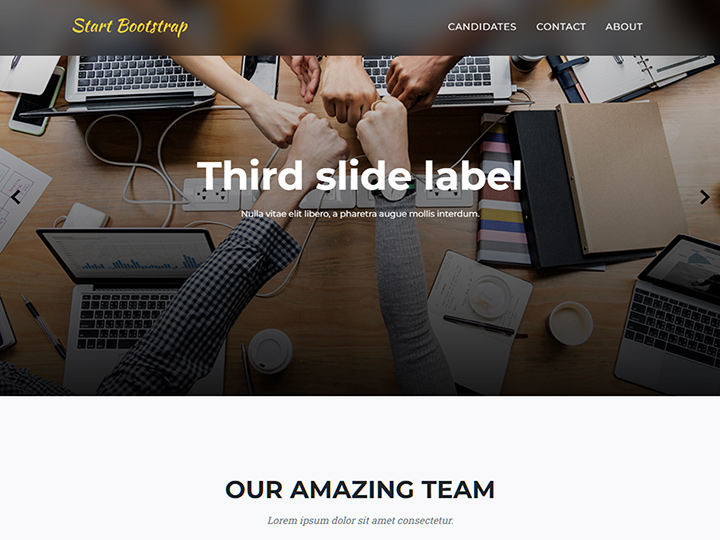
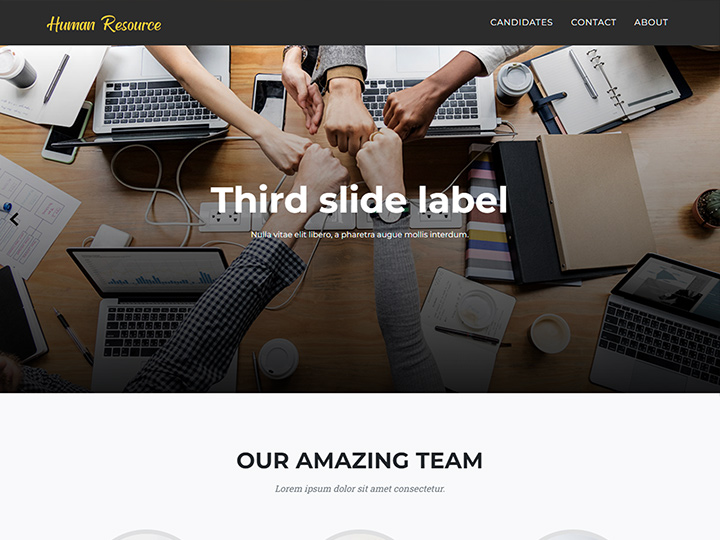
project update

diff --git a/index.html b/index.html
@@ -6,6 +6,12 @@
     <meta http-equiv="X-UA-Compatible" content="IE=edge">
     <link rel="icon" type="image/x-icon" href="favicon.ico">
     <meta name="viewport" content="width=device-width, initial-scale=1.0">
+    <script>
+        window.dataLayer = window.dataLayer || [];
+        function gtag() { dataLayer.push(arguments) }
+        gtag('js', new Date());
+        gtag('config', 'G-H2BFXVEZ0J');
+    </script>
     <link rel="stylesheet" href="https://cdn.jsdelivr.net/npm/bootstrap-icons@1.7.2/font/bootstrap-icons.css">
     <link href="https://cdn.jsdelivr.net/npm/bootstrap@5.1.3/dist/css/bootstrap.min.css" rel="stylesheet"
         integrity="sha384-1BmE4kWBq78iYhFldvKuhfTAU6auU8tT94WrHftjDbrCEXSU1oBoqyl2QvZ6jIW3" crossorigin="anonymous">
@@ -28,7 +34,7 @@
     <div class="px-1 px-sm-3 mb-2">
         <main class="container">
 
-            
+
 
             <div class="p-3 p-md-5 m-2 text-center bg-light">
                 <div class="col-md-9 mx-auto">
@@ -68,9 +74,17 @@
 
             <div class="row featurette">
                 <div class="col-md-5 order-md-2">
-                    <h2 class="featurette-heading"><span class="text-muted">React Redux</span> Human Resource<span class="text-muted"> Application</span></h2>
-                    <p class="lead">Lorem ipsum dolor sit amet consectetur adipisicing elit. Cumque architecto ratione eveniet amet, repellat ipsa doloremque enim culpa?</p>
+                    <h2 class="featurette-heading"><span class="text-muted">React Redux</span> Human Resource<span
+                            class="text-muted"> Application</span></h2>
+                    <p class="lead">Lorem ipsum dolor sit amet consectetur adipisicing elit. Cumque architecto ratione
+                        eveniet amet, repellat ipsa doloremque enim culpa?</p>
                     <p>
+                        <span class="badge rounded-pill bg-light text-dark p-2">
+                            <i class="bi bi-tag"></i> Node.js</span>
+                        <span class="badge rounded-pill bg-light text-dark p-2">
+                            <i class="bi bi-tag"></i> MongoDB</span>
+                        <span class="badge rounded-pill bg-light text-dark p-2">
+                            <i class="bi bi-tag"></i> API</span>
                         <span class="badge rounded-pill bg-light text-dark p-2">
                             <i class="bi bi-tag"></i> React</span>
                         <span class="badge rounded-pill bg-light text-dark p-2">
@@ -83,7 +97,7 @@
 
                 </div>
                 <div class="col-md-7 order-md-1">
-                    <a href="https://humanrc.netlify.app/" target="_blank">
+                    <a href="https://fatihqaz.github.io/human-resource/" target="_blank">
                         <img class="rounded" src="img/human.jpg" alt=""></a>
                 </div>
             </div>
@@ -94,8 +108,10 @@
 
             <div class="row featurette">
                 <div class="col-md-5">
-                    <h2 class="featurette-heading"><span class="text-muted">React</span> Todos<span class="text-muted"> Application</span></h2>
-                    <p class="lead">Lorem ipsum, dolor sit amet consectetur adipisicing elit. Optio reiciendis numquam nihil ipsa similique.</p>
+                    <h2 class="featurette-heading"><span class="text-muted">React</span> Todos<span class="text-muted">
+                            Application</span></h2>
+                    <p class="lead">Lorem ipsum, dolor sit amet consectetur adipisicing elit. Optio reiciendis numquam
+                        nihil ipsa similique.</p>
 
                     <p>
                         <span class="badge rounded-pill bg-light text-dark p-2">
@@ -105,7 +121,7 @@
                         <span class="badge rounded-pill bg-light text-dark p-2">
                             <i class="bi bi-tag"></i> Javascript</span>
                     </p>
-  
+
                 </div>
 
                 <div class="col-md-7">
@@ -121,8 +137,10 @@
 
             <div class="row featurette">
                 <div class="col-md-5 order-md-2">
-                    <h2 class="featurette-heading"><span class="text-muted">React</span> Phone Book<span class="text-muted"> Application</span></h2>
-                    <p class="lead">Lorem ipsum dolor sit amet consectetur adipisicing elit. Cumque architecto ratione eveniet amet, repellat ipsa doloremque enim culpa?</p>
+                    <h2 class="featurette-heading"><span class="text-muted">React</span> Phone Book<span
+                            class="text-muted"> Application</span></h2>
+                    <p class="lead">Lorem ipsum dolor sit amet consectetur adipisicing elit. Cumque architecto ratione
+                        eveniet amet, repellat ipsa doloremque enim culpa?</p>
                     <p>
                         <span class="badge rounded-pill bg-light text-dark p-2">
                             <i class="bi bi-tag"></i> React</span>
@@ -146,14 +164,15 @@
             <div class="row featurette">
                 <div class="col-md-5">
                     <h2 class="featurette-heading">Movies<span class="text-muted"> Application</span></h2>
-                    <p class="lead">Lorem ipsum, dolor sit amet consectetur adipisicing elit. Optio reiciendis numquam nihil ipsa similique.</p>
+                    <p class="lead">Lorem ipsum, dolor sit amet consectetur adipisicing elit. Optio reiciendis numquam
+                        nihil ipsa similique.</p>
                     <!-- <p class="text-warning">
                     <i class="bi bi-star-fill"></i>
                     <i class="bi bi-star-fill"></i>
                     <i class="bi bi-star"></i>
                     <i class="bi bi-star"></i>
                     <i class="bi bi-star"></i>
-                </p> -->
+                    </p> -->
                     <p>
                         <span class="badge rounded-pill bg-light text-dark p-2">
                             <i class="bi bi-tag"></i> Bootstarp</span>
@@ -162,8 +181,6 @@
                         <span class="badge rounded-pill bg-light text-dark p-2">
                             <i class="bi bi-tag"></i> Javascript</span>
                     </p>
-                    <!-- <hr>
-                 <button type=" button" class="btn btn-outline-primary">Source Code</button> -->
                 </div>
 
                 <div class="col-md-7">
@@ -180,7 +197,8 @@
             <div class="row featurette">
                 <div class="col-md-5 order-md-2">
                     <h2 class="featurette-heading">Exchange<span class="text-muted"> Application</span></h2>
-                    <p class="lead">Lorem ipsum dolor sit amet consectetur, adipisicing elit. Tenetur ipsa autem error?</p>
+                    <p class="lead">Lorem ipsum dolor sit amet consectetur, adipisicing elit. Tenetur ipsa autem error?
+                    </p>
                     <p>
                         <span class="badge rounded-pill bg-light text-dark p-2">
                             <i class="bi bi-tag"></i> API</span>
@@ -202,7 +220,8 @@
             <div class="row featurette">
                 <div class="col-md-5">
                     <h2 class="featurette-heading">Bill Calculator<span class="text-muted"> Application</span></h2>
-                    <p class="lead">Lorem ipsum dolor sit amet consectetur adipisicing elit. Similique saepe nisi, illo numquam repellendus, sed vitae commodi quas, cupiditate totam at assumenda molestias?</p>
+                    <p class="lead">Lorem ipsum dolor sit amet consectetur adipisicing elit. Similique saepe nisi, illo
+                        numquam repellendus, sed vitae commodi quas, cupiditate totam at assumenda molestias?</p>
                     <p>
                         <span class="badge rounded-pill bg-light text-dark p-2">
                             <i class="bi bi-tag"></i> CSS</span>
@@ -223,7 +242,9 @@
             <div class="row featurette">
                 <div class="col-md-5 order-md-2">
                     <h2 class="featurette-heading">Guess Number<span class="text-muted"> Application</span></h2>
-                    <p class="lead">Lorem ipsum dolor sit amet consectetur adipisicing elit. Ex corrupti molestias incidunt est exercitationem adipisci expedita at, necessitatibus sunt eum. Vel, voluptatibus? Commodi, eos?</p>
+                    <p class="lead">Lorem ipsum dolor sit amet consectetur adipisicing elit. Ex corrupti molestias
+                        incidunt est exercitationem adipisci expedita at, necessitatibus sunt eum. Vel, voluptatibus?
+                        Commodi, eos?</p>
                     <p>
                         <span class="badge rounded-pill bg-light text-dark p-2">
                             <i class="bi bi-tag"></i> CSS</span>
@@ -244,7 +265,8 @@
             <div class="row featurette">
                 <div class="col-md-5">
                     <h2 class="featurette-heading">Dice Game<span class="text-muted"> Application</span></h2>
-                    <p class="lead">Lorem ipsum dolor sit amet consectetur adipisicing elit. Sed dignissimos, inventore quas commodi accusantium sapiente nihil similique.</p>
+                    <p class="lead">Lorem ipsum dolor sit amet consectetur adipisicing elit. Sed dignissimos, inventore
+                        quas commodi accusantium sapiente nihil similique.</p>
                     <p>
                         <span class="badge rounded-pill bg-light text-dark p-2">
                             <i class="bi bi-tag"></i> CSS</span>
@@ -265,7 +287,8 @@
             <div class="row featurette">
                 <div class="col-md-5 order-md-2">
                     <h2 class="featurette-heading">Red Ball<span class="text-muted"> Application</span></h2>
-                    <p class="lead">Lorem, ipsum dolor sit amet consectetur adipisicing elit. Alias error officiis odit. Repudiandae, minima exercitationem? Quo molestiae saepe non.</p>
+                    <p class="lead">Lorem, ipsum dolor sit amet consectetur adipisicing elit. Alias error officiis odit.
+                        Repudiandae, minima exercitationem? Quo molestiae saepe non.</p>
                     <p>
                         <span class="badge rounded-pill bg-light text-dark p-2">
                             <i class="bi bi-tag"></i> Javascript</span>
@@ -284,7 +307,9 @@
             <div class="row featurette">
                 <div class="col-md-5">
                     <h2 class="featurette-heading">Random Background<span class="text-muted"> Application</span></h2>
-                    <p class="lead">Lorem ipsum dolor sit amet consectetur adipisicing elit. Quia odio modi sunt reiciendis iusto nam quaerat voluptas consequuntur mollitia voluptates beatae ratione eligendi illo, iure veritatis!</p>
+                    <p class="lead">Lorem ipsum dolor sit amet consectetur adipisicing elit. Quia odio modi sunt
+                        reiciendis iusto nam quaerat voluptas consequuntur mollitia voluptates beatae ratione eligendi
+                        illo, iure veritatis!</p>
                     <p>
                         <span class="badge rounded-pill bg-light text-dark p-2">
                             <i class="bi bi-tag"></i> Javascript</span>
@@ -303,7 +328,8 @@
             <div class="row featurette">
                 <div class="col-md-5 order-md-2">
                     <h2 class="featurette-heading">Quiz<span class="text-muted"> Application</span></h2>
-                    <p class="lead">Lorem ipsum dolor sit amet consectetur adipisicing elit. Earum illo atque nesciunt ipsa tempore qui, cupiditate aliquid natus.</p>
+                    <p class="lead">Lorem ipsum dolor sit amet consectetur adipisicing elit. Earum illo atque nesciunt
+                        ipsa tempore qui, cupiditate aliquid natus.</p>
                     <p>
                         <span class="badge rounded-pill bg-light text-dark p-2">
                             <i class="bi bi-tag"></i> Bootstarp</span>
@@ -349,6 +375,8 @@
 
     </div>
 
+    <!-- Global site tag (gtag.js) - Google Analytics -->
+    <script async src="https://www.googletagmanager.com/gtag/js?id=G-H2BFXVEZ0J"></script>
     <script src="https://cdn.jsdelivr.net/npm/bootstrap@5.1.3/dist/js/bootstrap.bundle.min.js"
         integrity="sha384-ka7Sk0Gln4gmtz2MlQnikT1wXgYsOg+OMhuP+IlRH9sENBO0LRn5q+8nbTov4+1p" crossorigin="anonymous">
     </script>
